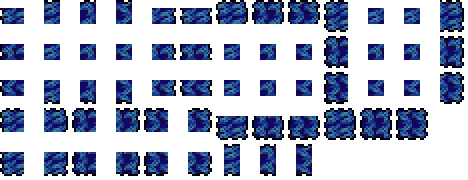
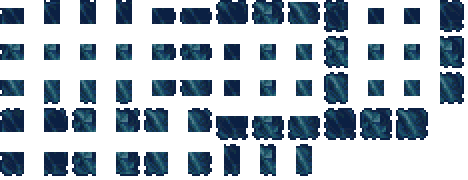
:b:

diff --git a/EESubworlds.cs b/EESubworlds.cs
@@ -352,7 +352,7 @@ namespace EEMod
 
 
 
-                perlinNoise = new PerlinNoiseFunction(Main.maxTilesX, (int)(Main.maxTilesY * 0.9f), 50, 50, 0.2f);
+                perlinNoise = new PerlinNoiseFunction(Main.maxTilesX, (int)(Main.maxTilesY * 0.9f), 50, 50, 0.3f);
                 int[,] perlinNoiseFunction = perlinNoise.perlinBinary;
                 for (int i = 42; i < Main.maxTilesX - 42; i++)
                 {
